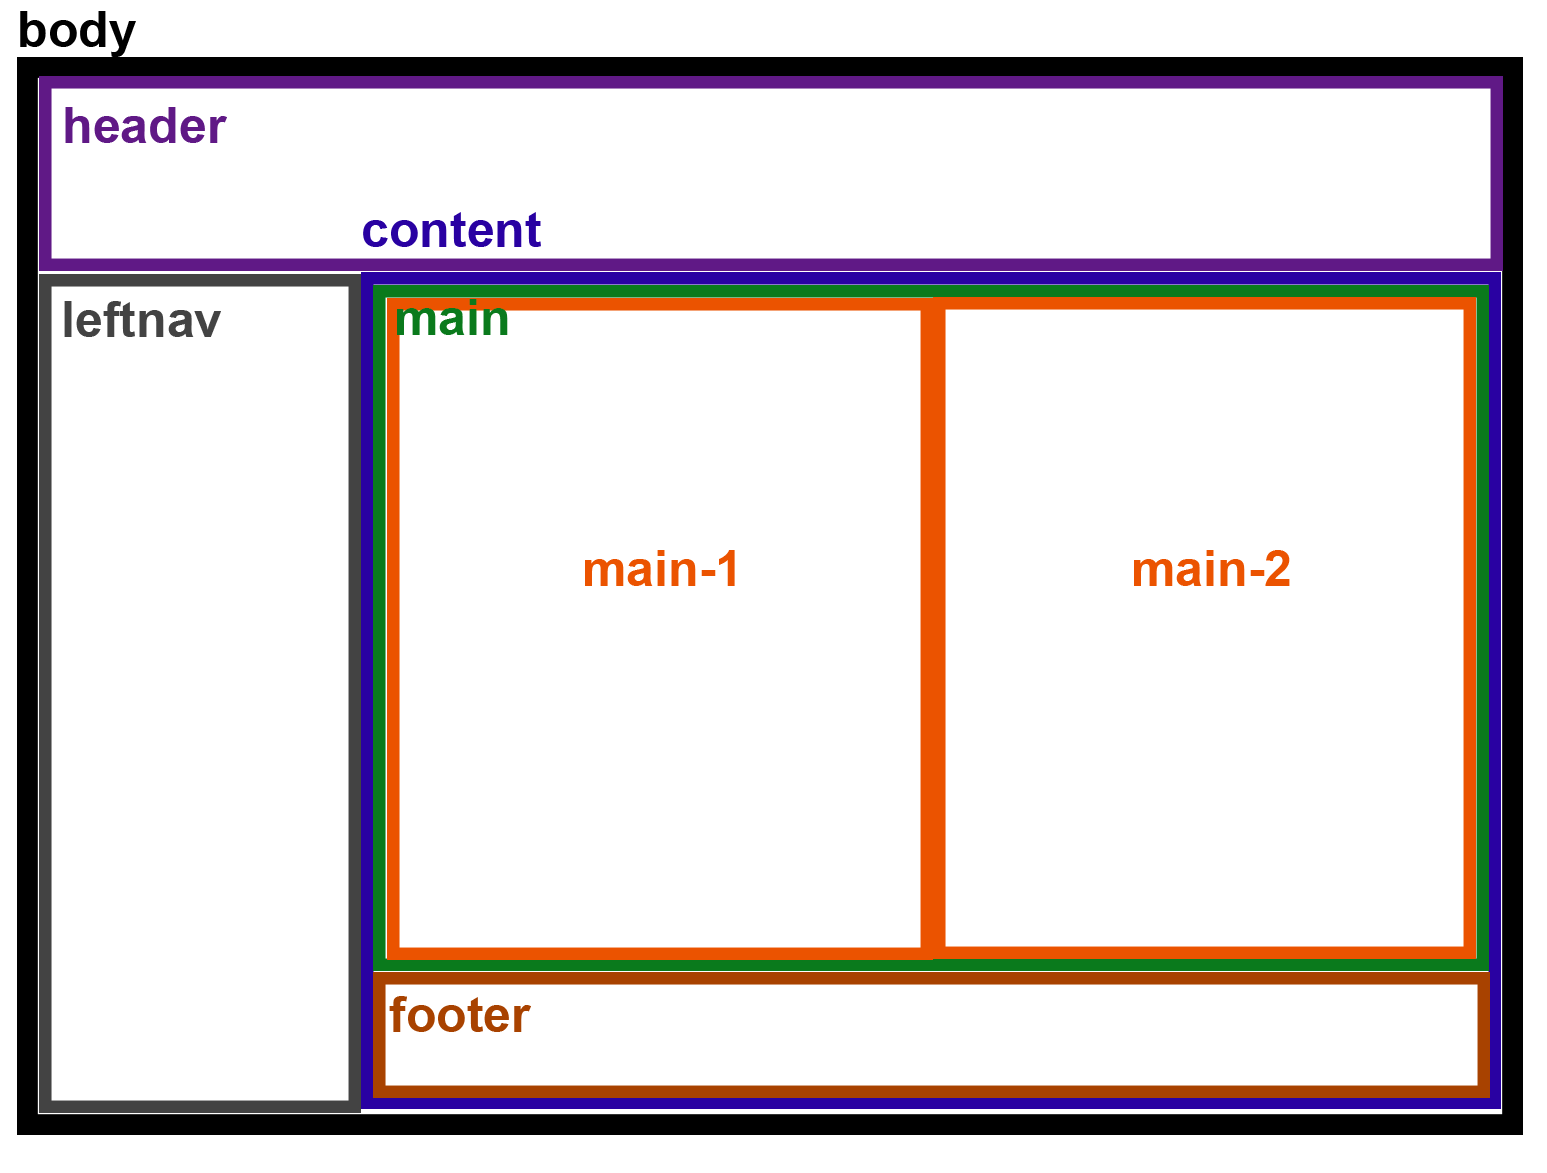
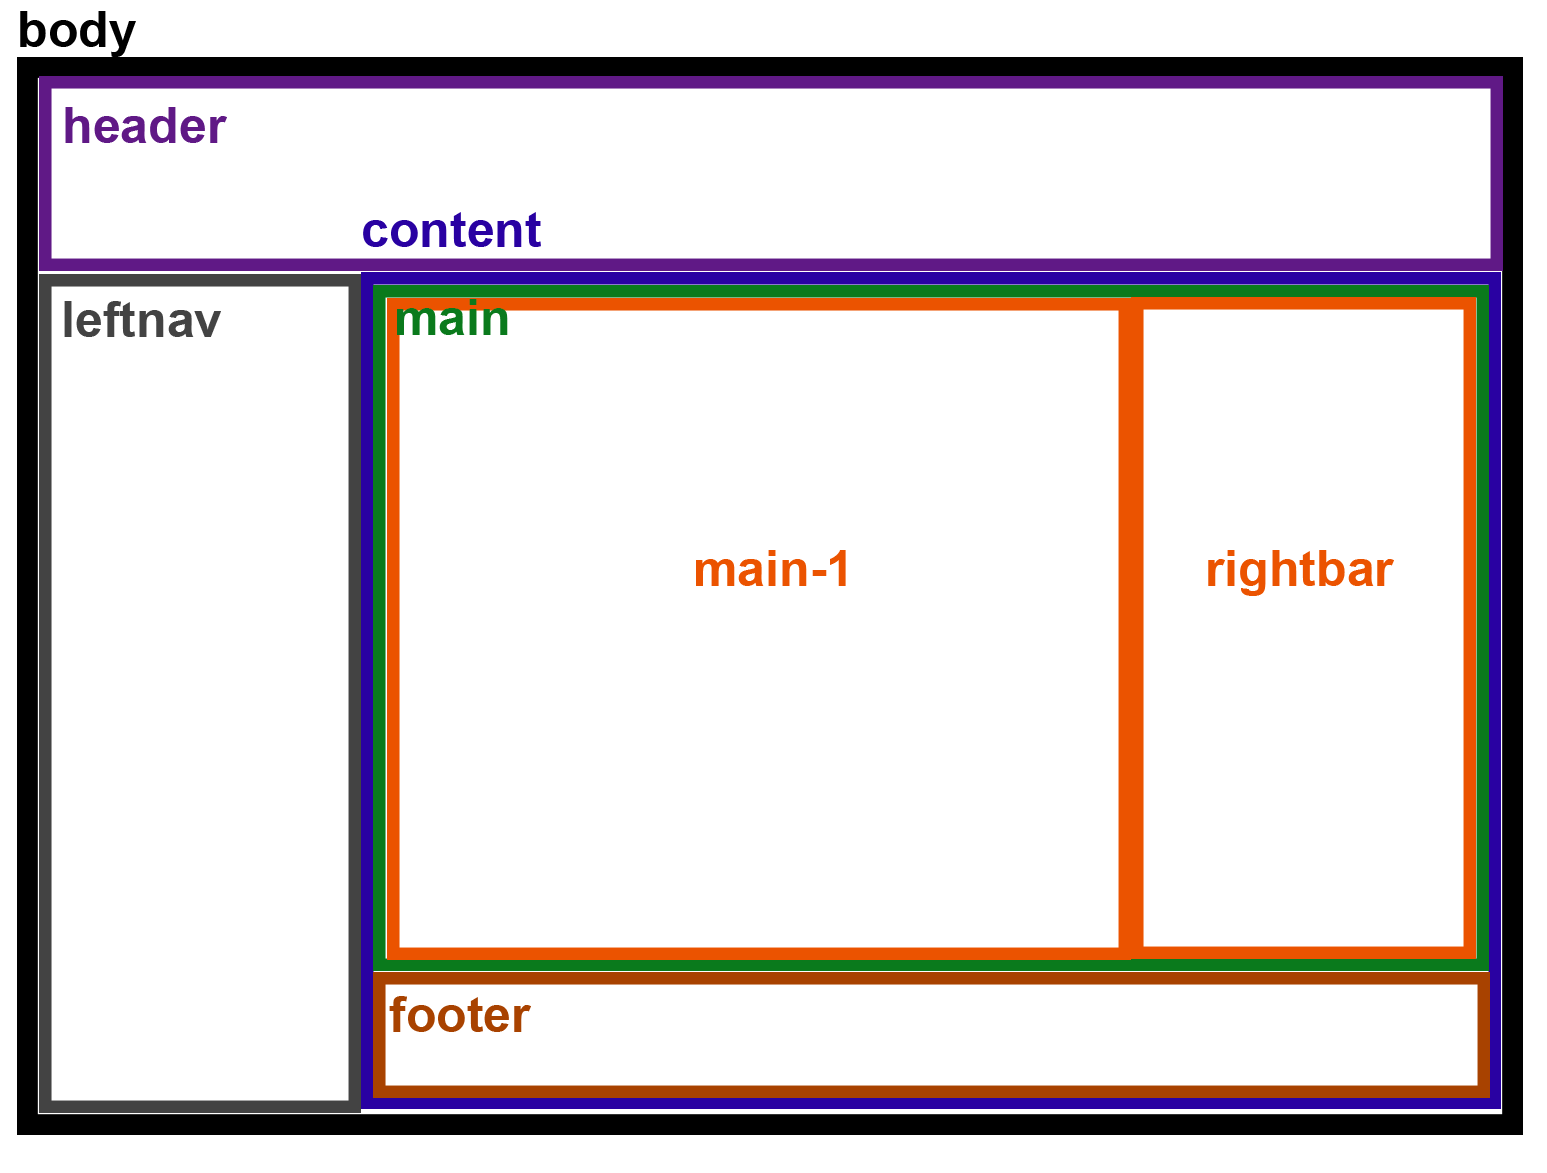
update struct

Changed region(s): [[0.7136, 0.2455, 0.8998, 0.8286], [0.5895, 0.2455, 0.6206, 0.8286], [0.3723, 0.4604, 0.5585, 0.5217]]

diff --git a/index.html b/index.html
@@ -3,7 +3,8 @@
 <head>
 	<title>Front End Practice</title>
 	<meta charset="UTF-8" />
-	<link rel="stylesheet" href="index.css" >
+	<link rel="stylesheet" href="./css/main-struct.css" >
+	<link rel="stylesheet" href="./css/index.css" >
 </head>
 <body>
 	<div id="header" >
@@ -13,14 +14,15 @@
 	</div>
 	<div id="leftnav" class="leftnav" >
 		<div class="leftnav-container" >
-			<h3>Navigator</h3>
+			<a href="./practice-1.html" ><h3>Practice 1</h3></a>
 		</div>
 	</div>
 	<div id="content" class="content" >
 		<div id="main" >			
 			<div id="main-1" >
-				<h2 class="inline-block">首頁版面配置</h2>&nbsp;&nbsp;&nbsp;
-				<span>2017/7/31<span>
+				<h1 class="inline-block">首頁版面配置</h1>&nbsp;&nbsp;&nbsp;
+				<span>建立 : 2017/7/31 更新 : 2017/8/8<span>
+				<img id="img_layout_0" src="./image/layout_0.png" >
 				<h2>設定</h2>
 				<p>
 					<ul>
@@ -28,20 +30,33 @@
 						<li>header高度, leftnav寬度, footer高度存成變數</li>
 						<li>content上側跟左側設padding, 因為有設定 { box-sizing: border-box; }, 所以高度用100%</li>
 						<li>main的高度用content高度減footer高度</li>
-						<li>main-1, main-2用float來做2欄並排
+						<li>main-1, rightbar用float來做2欄並排
 					</ul>
 				</p>				
-				<h2>小收穫:</h2>
+				<h2>小收穫</h2>
 				<p>
 					<ul>
-						<li>body的位置會被子層div的margin-top推到</li>
+						<li>body的位置會被子層div的margin影響到</li>
 						<li>使用float做排版時, 需明確給寬度否則無法達到並排的效果, 還要注意寬度若是剛好占滿(例如各50%), 還會被padding, margin影響到。不過padding可用 { box-sizing: border-box; } 來解決, margin則無法</li>
 						<li>父層div的長/寬若只有用min-/max-這種方式給, 則子層div的長寬想用父層的比例來給時, 似乎會沒有效果</li>
 					</ul>
 				</p>
+				<h2>疑惑</h2>
+				<p>
+					<ul>
+						<li>content跟main的高度一直保持固定, 就算main-1的高度拉長也一樣, 不知道這樣會不會很奇怪</li>
+						<li>共用主架構css可以快速讓整個網站都用相同的配置方式, 但若哪天大改架構, 仍然可能需要一個一個html檔案修改, 非常辛苦</li>
+					</ul>
+				</p>
+				<h2>待改善</h2>
+				<p>
+					<ul>
+						<li>響應式</li>
+						<li>功能表的項目似乎該由資料庫抓取, 否則每次有修改, 舊的網頁都得改, 維護起來很麻煩</li>
+					</ul>
+				</p>
 			</div>
-			<div id="main-2" >
-				<img id="img_layout_0" src="./image/layout_0.png" >
+			<div id="rightbar" >				
 			</div>
 		</div>
 		<div id="footer" >

diff --git a/practice-1.html b/practice-1.html
@@ -1,0 +1,36 @@
+<!DOCTYPE html>
+<html>
+<head>
+	<title>Front End Practice</title>
+	<meta charset="UTF-8" />
+	<link rel="stylesheet" href="./css/main-struct.css" >
+	<link rel="stylesheet" href="./css/" >
+</head>
+<body>
+	<div id="header" >
+		<div class="header-container" >
+			<a class="logo" href="index.html" >Json's Front End Practice</a>
+		</div>
+	</div>
+	<div id="leftnav" class="leftnav" >
+		<div class="leftnav-container" >
+			<h3>Practice 1</h3>
+		</div>
+	</div>
+	<div id="content" class="content" >
+		<div id="main" >			
+			<div id="main-1" >
+				
+			</div>
+			<div id="rightbar" >				
+			</div>
+		</div>
+		<div id="footer" >
+			<hr>
+			<div class="footer-container" >
+				&copy;2017&nbsp;&nbsp;&nbsp;stu900277@gmail.com
+			</div>
+		</div>
+	</div>
+</body>
+</html>

diff --git a/template.html b/template.html
@@ -1,0 +1,35 @@
+<!DOCTYPE html>
+<html>
+<head>
+	<title>Front End Practice</title>
+	<meta charset="UTF-8" />
+	<link rel="stylesheet" href="./css/main-struct.css" >
+	<link rel="stylesheet" href="./css/" >
+</head>
+<body>
+	<div id="header" >
+		<div class="header-container" >
+			<a class="logo" href="index.html" >Json's Front End Practice</a>
+		</div>
+	</div>
+	<div id="leftnav" class="leftnav" >
+		<div class="leftnav-container" >
+		</div>
+	</div>
+	<div id="content" class="content" >
+		<div id="main" >			
+			<div id="main-1" >
+				
+			</div>
+			<div id="rightbar" >				
+			</div>
+		</div>
+		<div id="footer" >
+			<hr>
+			<div class="footer-container" >
+				&copy;2017&nbsp;&nbsp;&nbsp;stu900277@gmail.com
+			</div>
+		</div>
+	</div>
+</body>
+</html>

diff --git a/css/main-struct.css b/css/main-struct.css
@@ -1,6 +1,6 @@
 :root{
 	--header_h: 72px;
-	--leftnav_w: 200px;
+	--leftnav_w: 250px;
 	--footer_h: 70px;
 }
 *{
@@ -61,17 +61,15 @@ hr{
 	height: calc( 100% - var(--footer_h) );
 }
 #main-1{
-	width: 50%;
+	width: 60%;
 	padding: 20px 20px 40px 40px;
 	float: left;
 }
-#main-2{
-	width: 50%;
-	padding: 100px 40px 40px 10px;
+#rightbar{
+	width: 40%;
+	height: 100%;
+	/padding: 100px 40px 40px 10px;
 	float: left;
-}
-#img_layout_0{
-	width: 500px;
 }
 #footer{
 	height: var(--footer_h);

diff --git a/css/index.css b/css/index.css
@@ -1,0 +1,3 @@
+#img_layout_0{
+	width: 500px;
+}
